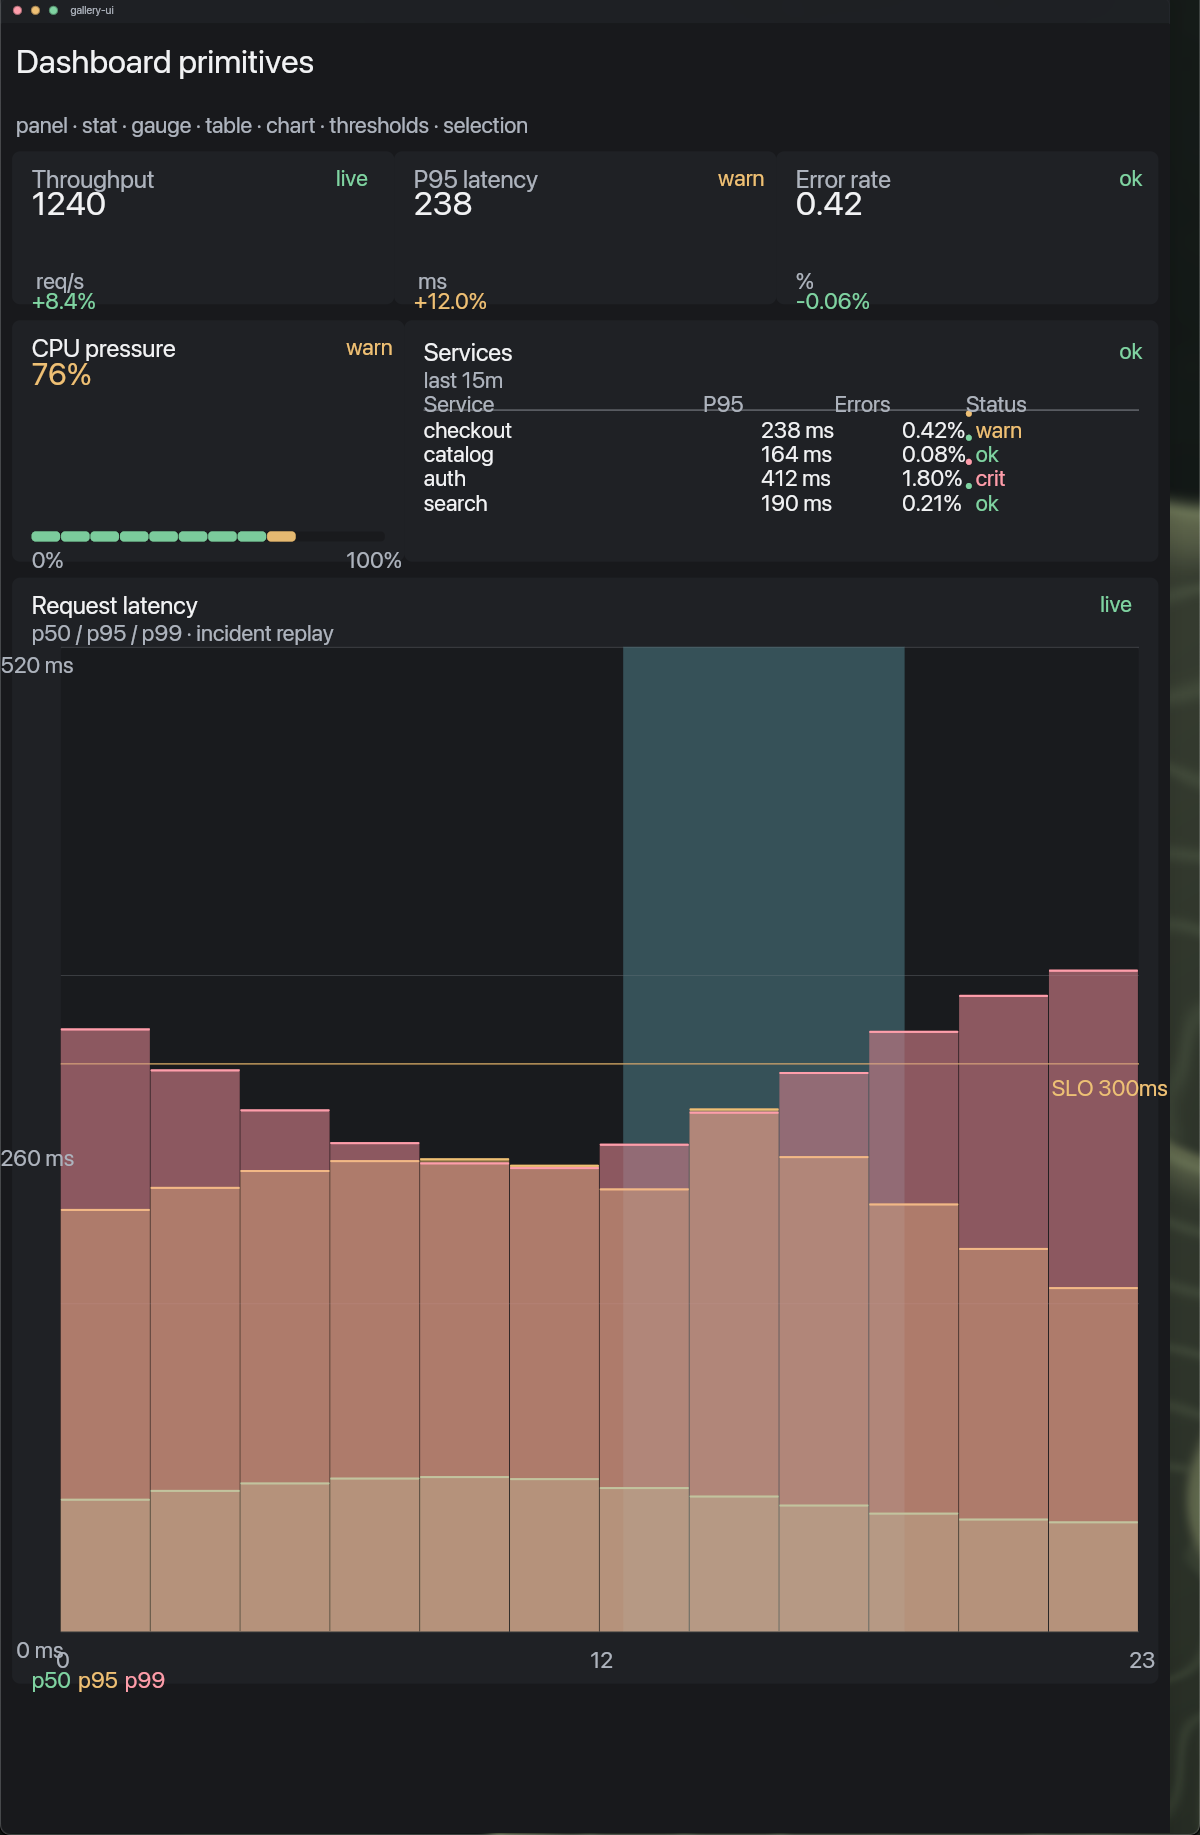
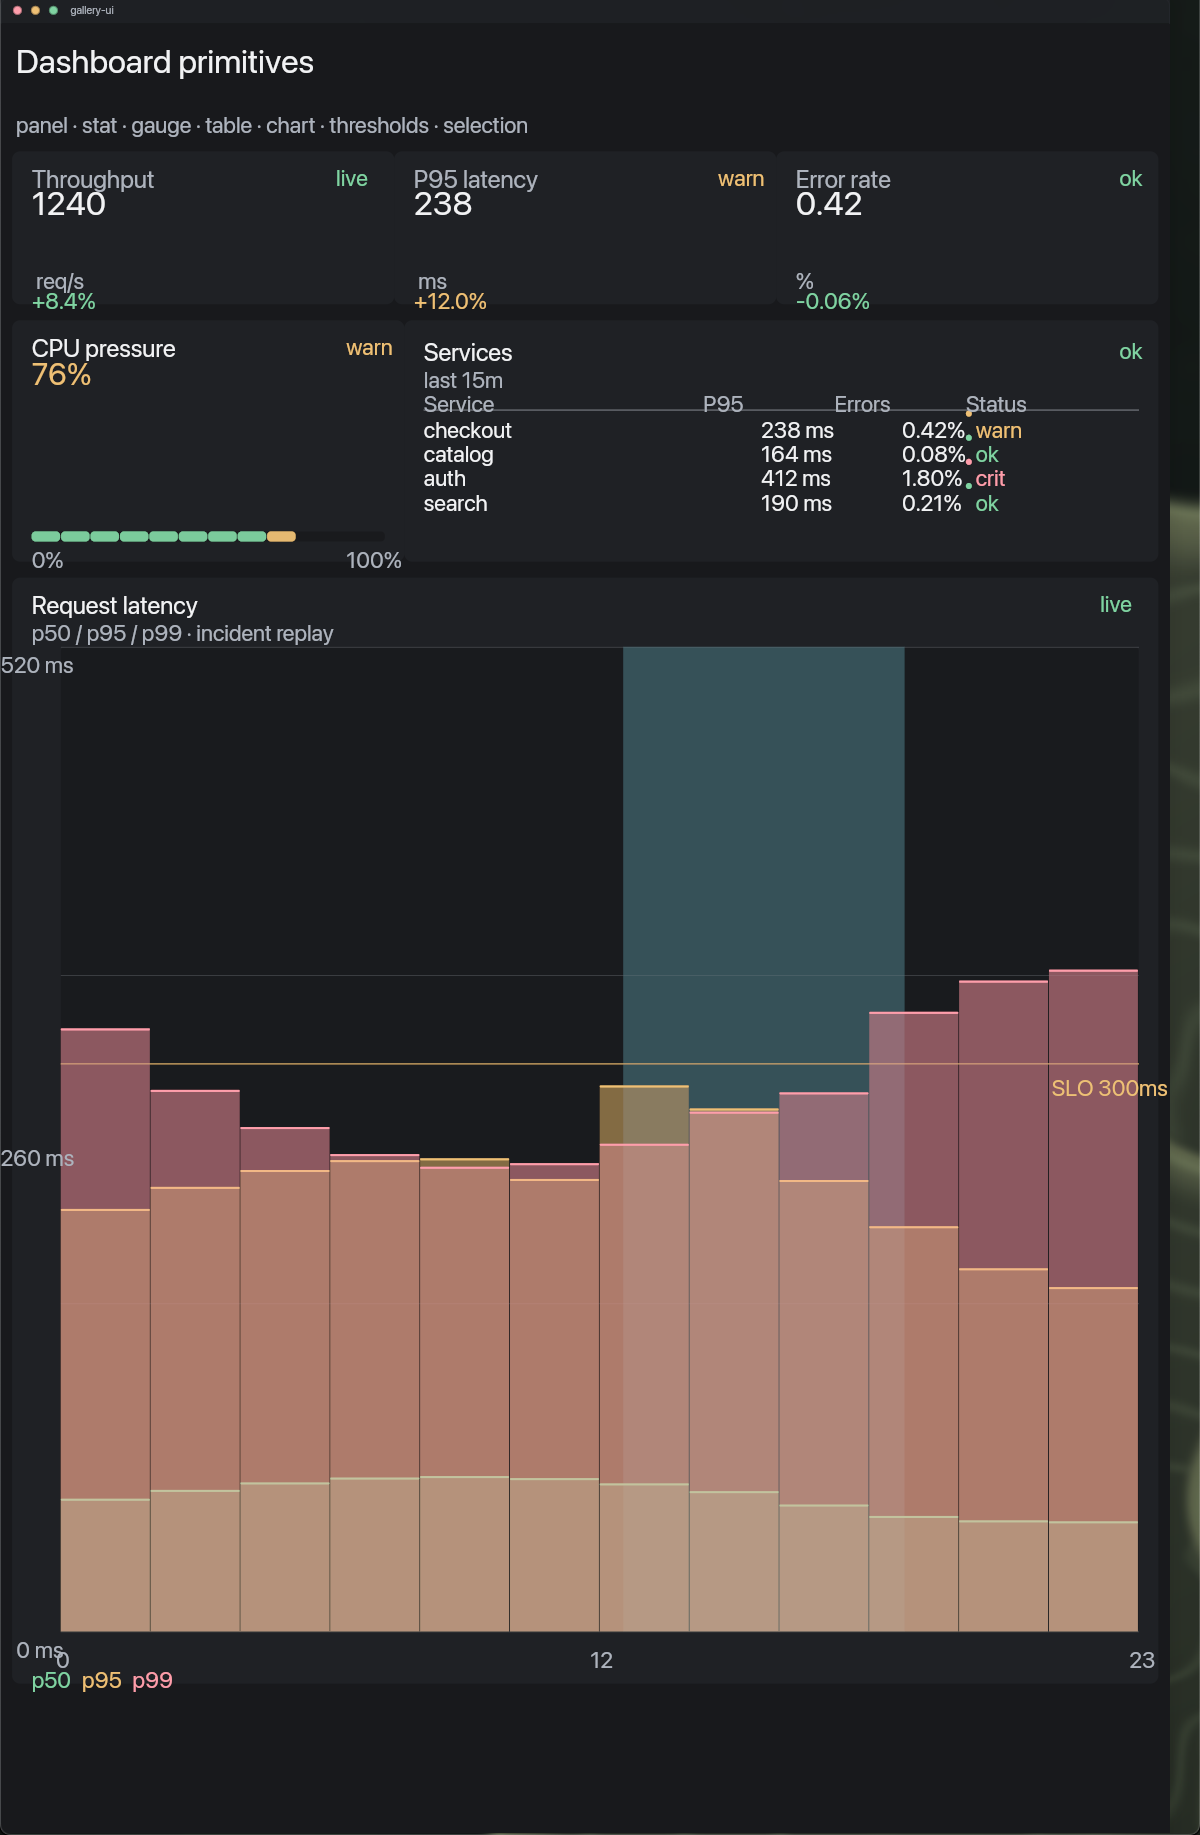
Port dense-series decimation and ChartGPU fixture

diff --git a/spores/gallery/README.md b/spores/gallery/README.md
@@ -21,6 +21,21 @@ not metrics, alerts, or authority.
 The view uses one fixture (`ui/gallery.lua`) so a visual change is a deliberate
 change to the component, not a change in live data.
 
+## ChartGPU fixture
+
+![ChartGPU decimated panels](chartgpu.png)
+
+`ui/chartgpu.lua` ports the five-panel ChartGPU fixture into ordinary `ui.chart`
+nodes. Each series has 120 source points, decimated with LTTB to 8 columns before
+the scene is emitted. `caps = false` keeps one rect per mark so all five panels
+fit the default Canvas budget.
+
+Run it headlessly with:
+
+```sh
+lua tests/chartgpu_fixture.lua
+```
+
 ## Run
 
 ```sh
@@ -28,10 +43,11 @@ cd spores/gallery
 lua tests/gallery_fixture.lua
 ```
 
-The fixture stubs `canvas.rect`, `canvas.text`, and `widget.button`, enables
-`ui.debug` so each node must draw inside the box it claimed, and asserts that
-every dashboard primitive and hit region was emitted. It runs without a
-compositor.
+The fixtures stub `canvas.rect`, `canvas.text`, and `widget.button`, enable
+`ui.debug` so each node must draw inside the box it claimed, and assert that
+every dashboard primitive and hit region was emitted. They run without a
+compositor. The gallery test also covers LTTB endpoints/spike preservation and
+the streaming window helper.
 
 To preview in Canvas, compose `sdk/ui/ui.lua` with `ui/gallery.lua` into a module
 and give the module manifest action grants for `inspect-stat`, `inspect-gauge`,

diff --git a/sdk/README.md b/sdk/README.md
@@ -20,6 +20,9 @@ migration debt, and should not be used as the source of truth for new work.
   `rule`, `code`, `diagram`, `bullets`, `quote`, `bar`, `fill`, `button`, `kbd`,
   `icon`, `icon_button`, plus the dashboard nodes `stat`, `gauge`, `table`, and
   `chart`, and the layout pass (`lay`) and token helpers.
+- `ui.lttb(points, threshold)` and `ui.chart_window(points, count)` — dense-series
+  decimation and streaming window helpers. `ui.chart` uses LTTB automatically
+  before it emits marks; set `decimate = false` to keep uniform sampling.
 - `package.toml` — name, version, entry.
 
 Dashboard nodes are ordinary tree nodes. They consume the same ink, space, radius,
@@ -29,7 +32,8 @@ can register host-owned hit regions with `action`, `row_action`, `legend_action`
 and `plot_action`. Actions are optional, so a headless preview or a non-Canvas host
 still renders the same tree.
 
-`spores/gallery` is the fixture-driven catalog and screenshot for these nodes.
+`spores/gallery` is the fixture-driven catalog and screenshot for these nodes,
+including the five-panel ChartGPU fixture.
 
 ## Rules the library enforces
 

diff --git a/docs/ui-model.md b/docs/ui-model.md
@@ -34,6 +34,12 @@ one pass, no host measurement, so the same tree previews and tests without a
 compositor. The dashboard nodes in this document use the portable path; a Spore
 that needs measured flex layout can call `canvas.layout` directly.
 
+Dense time series are bounded before they become scene nodes. `ui.lttb` keeps the
+endpoints and the dominant point in each bucket; `ui.chart` applies it to series
+that exceed the chart's mark count, and `ui.chart_window` keeps a streaming
+window without mutating the snapshot. This is the portable counterpart of the
+native host's resident dense-buffer decimation.
+
 ## What we adopted from the proposal
 
 | Proposal | Here |
